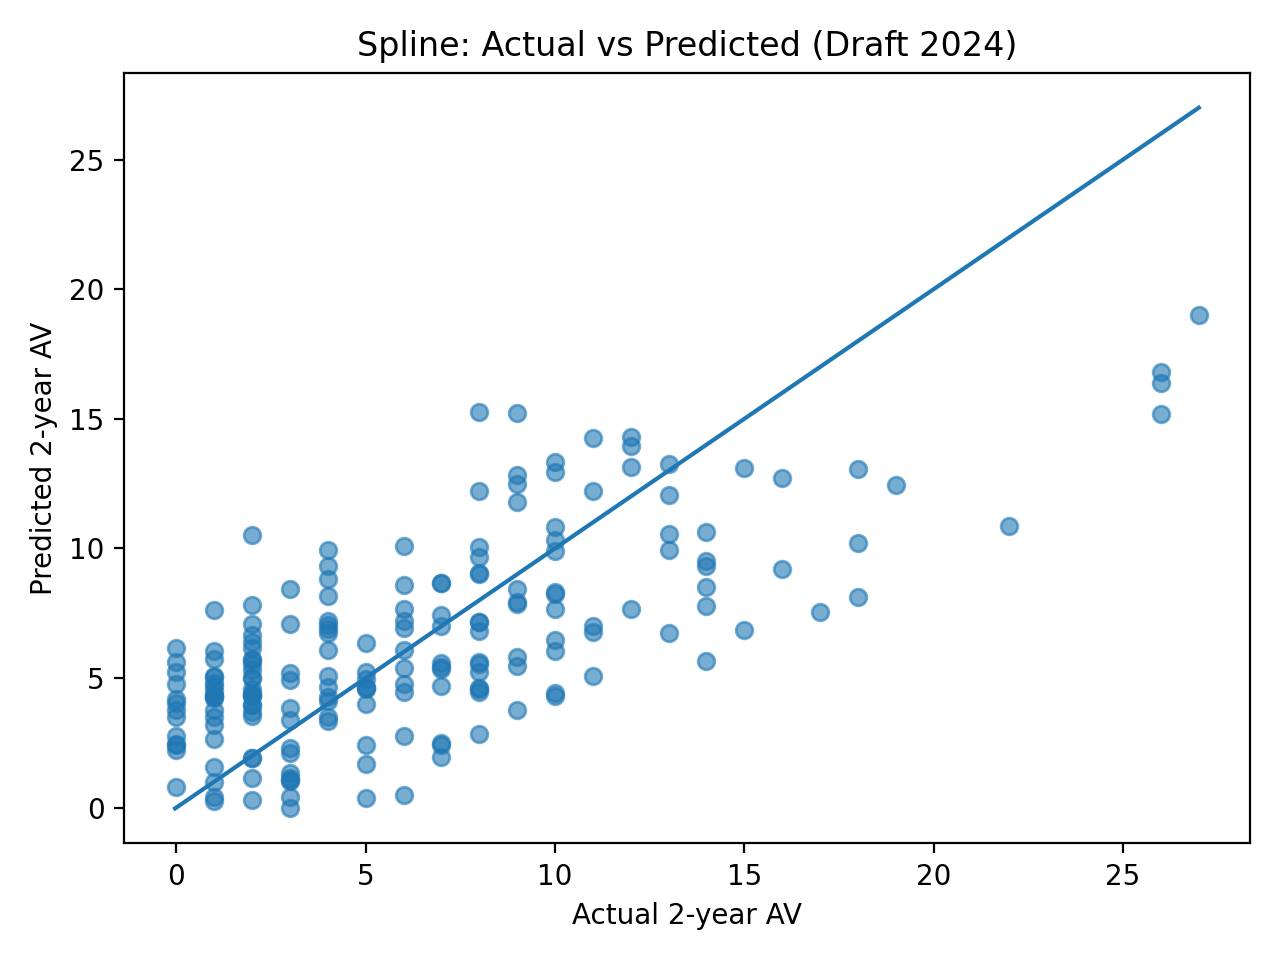
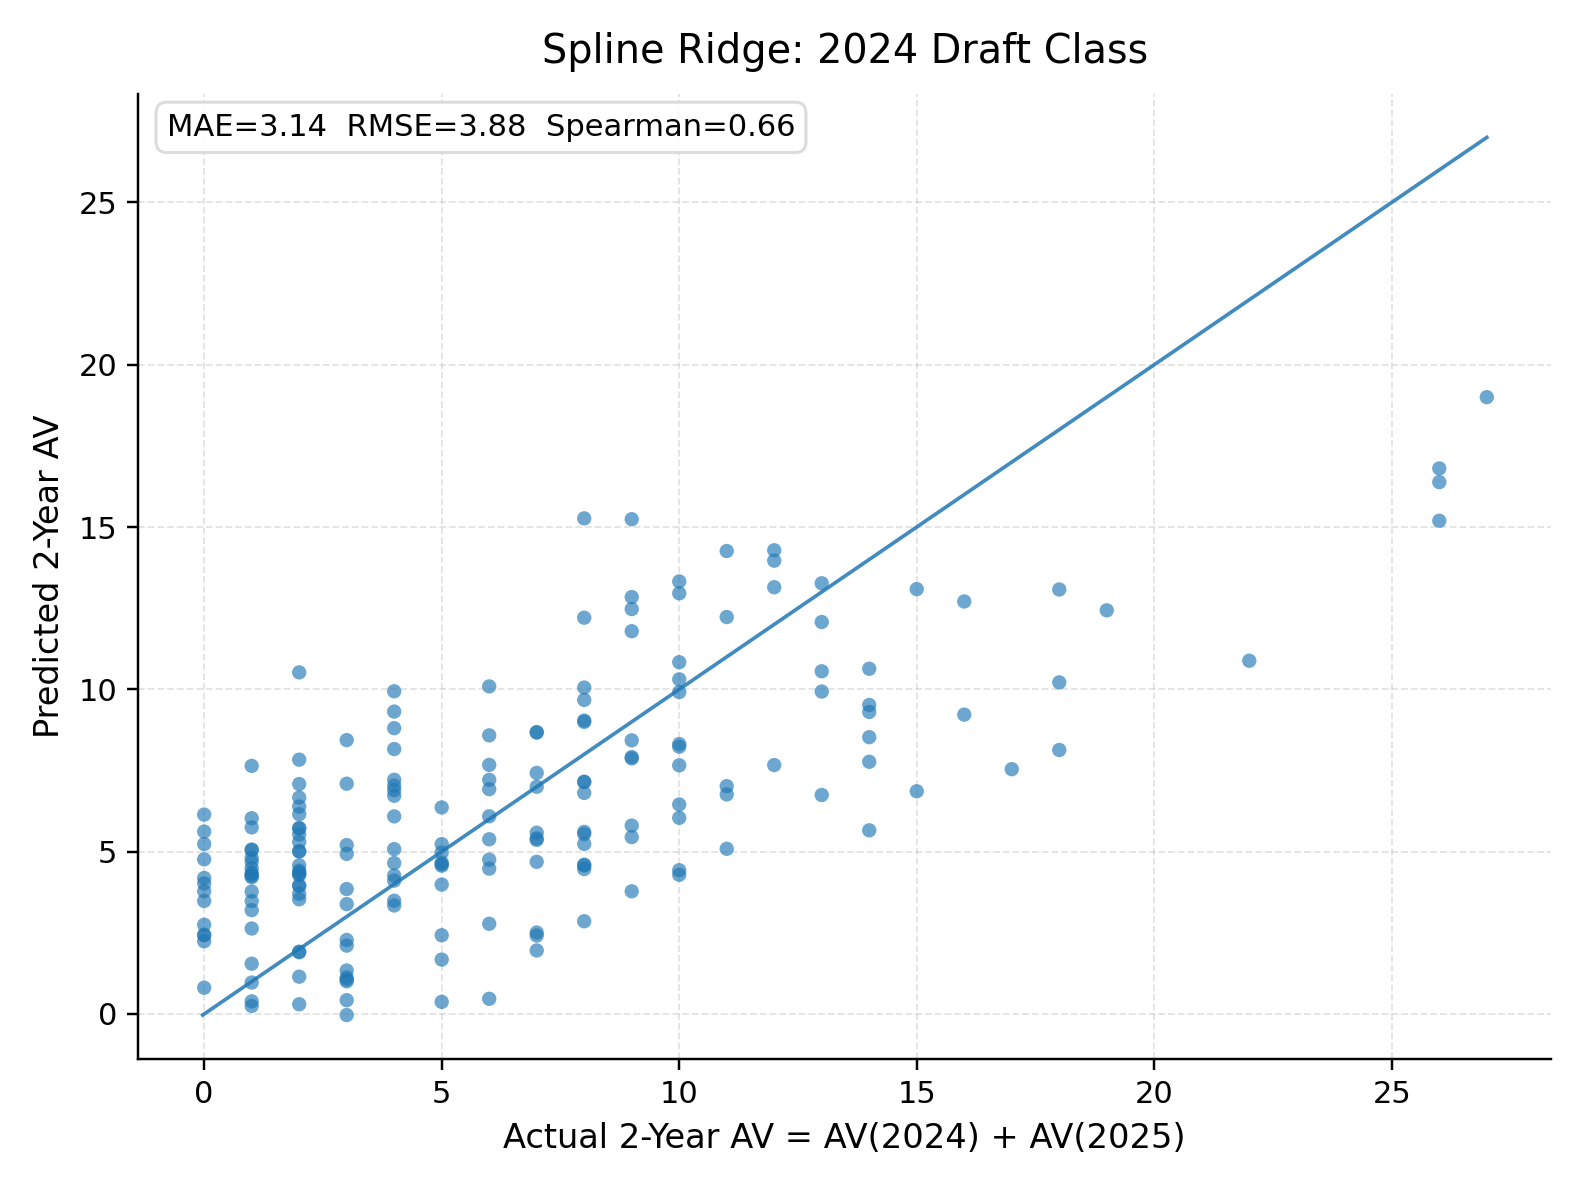
updated model training and visualizations

diff --git a/src/model_v1/train_n_evaluate.py b/src/model_v1/train_n_evaluate.py
@@ -41,24 +41,49 @@ def eval_metrics(y_true, y_pred):
     return mae, rmse, sp
 
 
-def save_pred_vs_actual(y_true, y_pred, out_path, title):
-    plt.figure()
-    plt.scatter(y_true, y_pred, alpha=0.6)
-    lo = float(min(np.min(y_true), np.min(y_pred)))
-    hi = float(max(np.max(y_true), np.max(y_pred)))
-    plt.plot([lo, hi], [lo, hi])
-    plt.xlabel("Actual 2-year AV")
-    plt.ylabel("Predicted 2-year AV")
-    plt.title(title)
-    plt.tight_layout()
-    plt.savefig(out_path, dpi=200)
-    plt.close()
+def _nice_axes(ax):
+    ax.grid(True, which="major", linestyle="--", linewidth=0.6, alpha=0.35)
+    ax.set_axisbelow(True)
+    for spine in ["top", "right"]:
+        ax.spines[spine].set_visible(False)
 
+def save_pred_vs_actual_pretty(y_true, y_pred, out_path, draft_year, model_name):
+    y_true = np.asarray(y_true)
+    y_pred = np.asarray(y_pred)
+    mae, rmse, sp = eval_metrics(y_true, y_pred)
 
-def save_spline_value_curve(model, X_train, out_path, title):
-    # Create pick grid, set other features to typical values so the curve is interpretable.
+    fig, ax = plt.subplots(figsize=(7.2, 5.4), dpi=220)
+    ax.scatter(y_true, y_pred, s=22, alpha=0.65, edgecolor="none")
+
+    lo = float(min(y_true.min(), y_pred.min()))
+    hi = float(max(y_true.max(), y_pred.max()))
+    ax.plot([lo, hi], [lo, hi], linewidth=1.2, alpha=0.85)
+
+    title = f"{model_name}: {draft_year} Draft Class"
+    ax.set_title(title, fontsize=13, pad=10)
+    ax.set_xlabel(f"Actual 2-Year AV = AV({draft_year}) + AV({draft_year+1})", fontsize=11)
+    ax.set_ylabel("Predicted 2-Year AV", fontsize=11)
+
+    txt = f"MAE={mae:.2f}  RMSE={rmse:.2f}  Spearman={sp:.2f}"
+    ax.text(
+        0.02, 0.98, txt,
+        transform=ax.transAxes,
+        va="top", ha="left",
+        fontsize=10,
+        bbox=dict(boxstyle="round,pad=0.35", facecolor="white", alpha=0.90, edgecolor="0.85")
+    )
+
+    ax.grid(True, linestyle="--", linewidth=0.6, alpha=0.35)
+    ax.set_axisbelow(True)
+    ax.spines["top"].set_visible(False)
+    ax.spines["right"].set_visible(False)
+
+    fig.tight_layout()
+    fig.savefig(out_path)
+    plt.close(fig)
+
+def save_spline_value_curve_pretty(model, X_train, out_path, train_end_year):
     grid = pd.DataFrame({"pick": np.arange(1, 261)})
-
     for col in X_train.columns:
         if col == "pick":
             continue
@@ -69,14 +94,22 @@ def save_spline_value_curve(model, X_train, out_path, title):
 
     preds = model.predict(grid)
 
-    plt.figure()
-    plt.plot(grid["pick"], preds)
-    plt.xlabel("Pick number")
-    plt.ylabel("Predicted 2-year AV")
-    plt.title(title)
-    plt.tight_layout()
-    plt.savefig(out_path, dpi=200)
-    plt.close()
+    fig, ax = plt.subplots(figsize=(7.2, 5.0), dpi=220)
+    ax.plot(grid["pick"], preds, linewidth=2.0)
+
+    ax.set_title("Estimated Pick Value Curve (Predicted 2-year AV)", fontsize=13, pad=10)
+    ax.set_xlabel("Pick number", fontsize=11)
+    ax.set_ylabel("Predicted 2-Year AV", fontsize=11)
+
+
+    ax.grid(True, linestyle="--", linewidth=0.6, alpha=0.35)
+    ax.set_axisbelow(True)
+    ax.spines["top"].set_visible(False)
+    ax.spines["right"].set_visible(False)
+
+    fig.tight_layout()
+    fig.savefig(out_path)
+    plt.close(fig)
 
 
 def load_draft(draft_csv: str) -> pd.DataFrame:
@@ -275,20 +308,22 @@ def main():
 
         # Save plots for the latest year only (best for slides)
         if test_year == latest_year:
-            save_pred_vs_actual(
+            save_pred_vs_actual_pretty(
                 y_test, pred_s,
                 os.path.join(OUT_DIR, f"plot_pred_vs_actual_spline_{test_year}.png"),
-                f"Spline: Actual vs Predicted (Draft {test_year})"
+                draft_year=test_year,
+                model_name="Spline Ridge"
             )
-            save_pred_vs_actual(
+            save_pred_vs_actual_pretty(
                 y_test, pred_x,
                 os.path.join(OUT_DIR, f"plot_pred_vs_actual_xgb_{test_year}.png"),
-                f"XGBoost: Actual vs Predicted (Draft {test_year})"
+                draft_year=test_year,
+                model_name="XGBoost"
             )
-            save_spline_value_curve(
+            save_spline_value_curve_pretty(
                 spline_model, X_train,
                 os.path.join(OUT_DIR, "plot_value_curve_spline.png"),
-                "Spline Value Curve vs Pick (Typical Context)"
+                train_end_year=test_year - 1
             )
 
     res_df = pd.DataFrame(results)
